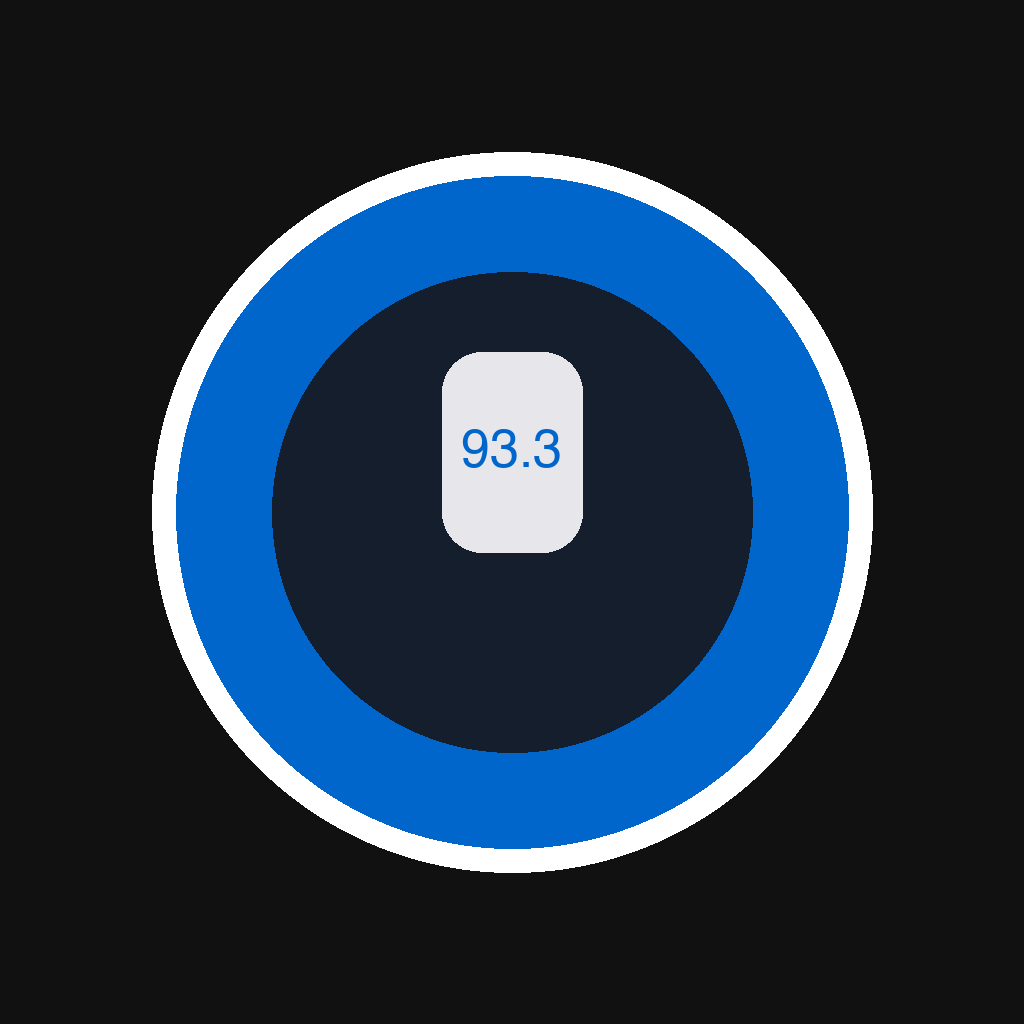
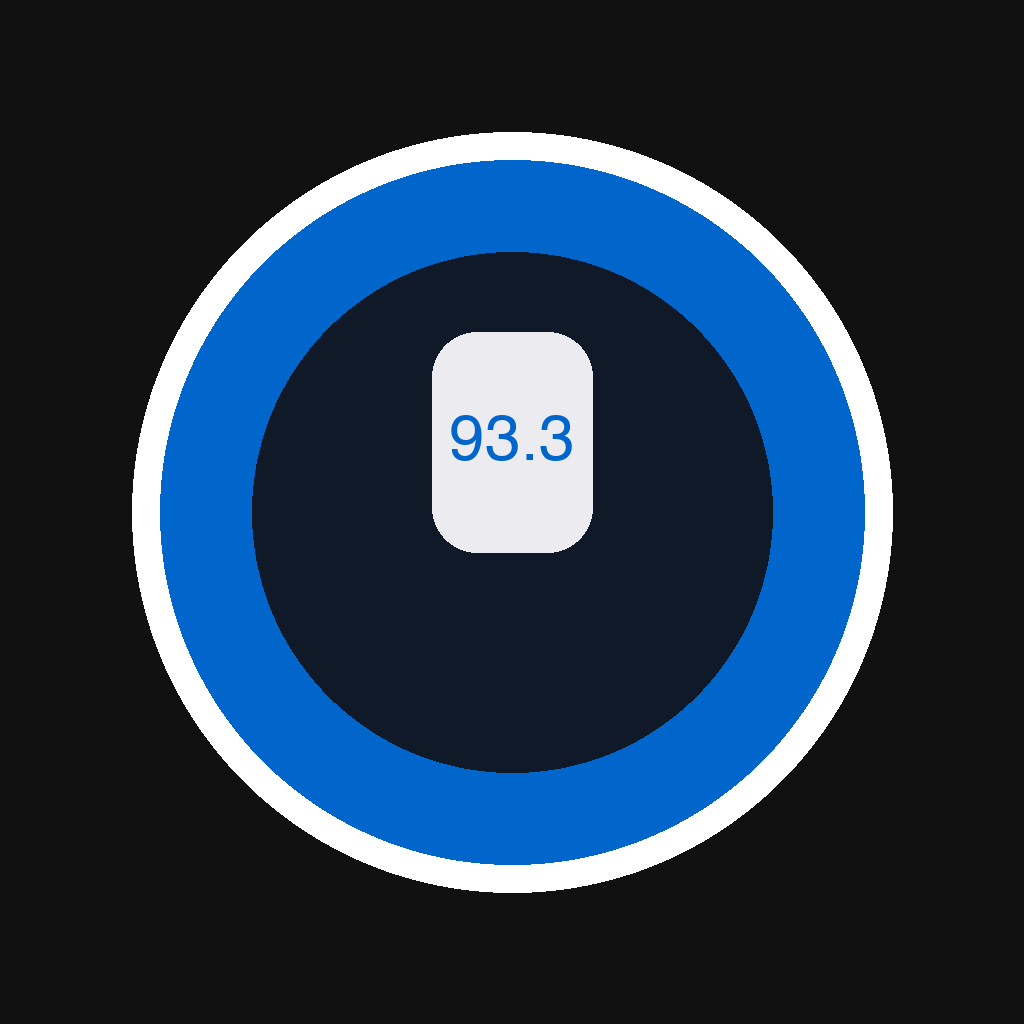
Fix: Artwork da Marcoense centrado e URLs absolutas na MediaSession

Changed region(s): [[0.125, 0.125, 0.875, 0.875], [0.2188, 0.2188, 0.7812, 0.7812], [0.4062, 0.3125, 0.5938, 0.5312]]

diff --git a/src/App.tsx b/src/App.tsx
@@ -389,26 +389,38 @@ export default function App() {
 /* =========================================================
      MEDIA SESSION API — LOCK SCREEN PERFECT MATCH
      ========================================================= */
-  useEffect(() => {
+  
+     useEffect(() => {
     if (!('mediaSession' in navigator)) return;
 
-    const songInfo = audioSource === 'circuito'
-      ? (nowPlaying?.artist && nowPlaying?.title ? `${nowPlaying.artist} • ${nowPlaying.title}` : 'Música que cria momentos')
-      : '93.3 FM • Emissão Regional';
+    const origin = window.location.origin;
 
-    const stationTitle = audioSource === 'circuito' ? 'Circuito Interno' : 'Rádio Marcoense';
+    if (audioSource === 'circuito') {
+      const songInfo = nowPlaying?.artist && nowPlaying?.title
+        ? `${nowPlaying.artist} • ${nowPlaying.title}`
+        : 'Música que cria momentos';
 
-    navigator.mediaSession.metadata = new MediaMetadata({
-      title: stationTitle,
-      artist: songInfo,
-      album: audioSource === 'circuito' ? 'Rádio Online' : 'Rádio Local',
-      artwork: [
-        { src: '/icons/artwork-solid.png?v=30', sizes: '512x512', type: 'image/png' },
-        { src: '/artwork-solid.png?v=30', sizes: '512x512', type: 'image/png' },
-      ],
-    });
+      navigator.mediaSession.metadata = new MediaMetadata({
+        title: 'Circuito Interno',
+        artist: songInfo,
+        album: 'Rádio Online',
+        artwork: [
+          { src: `${origin}/icons/artwork-solid.png?v=90`, sizes: '512x512', type: 'image/png' },
+          { src: `${origin}/artwork-solid.png?v=90`, sizes: '512x512', type: 'image/png' },
+        ],
+      });
+    } else {
+      navigator.mediaSession.metadata = new MediaMetadata({
+        title: 'Rádio Marcoense',
+        artist: '93.3 FM • Emissão Regional',
+        album: 'Rádio Local',
+        artwork: [
+          { src: `${origin}/icons/marcoense-solid.png?v=90`, sizes: '512x512', type: 'image/png' },
+          { src: `${origin}/marcoense-solid.png?v=90`, sizes: '512x512', type: 'image/png' },
+        ],
+      });
+    }
 
-    // Desativar obrigatoriamente os controlos de andar 10s para tras/frente
     try {
       navigator.mediaSession.setActionHandler('seekbackward', null);
       navigator.mediaSession.setActionHandler('seekforward', null);
